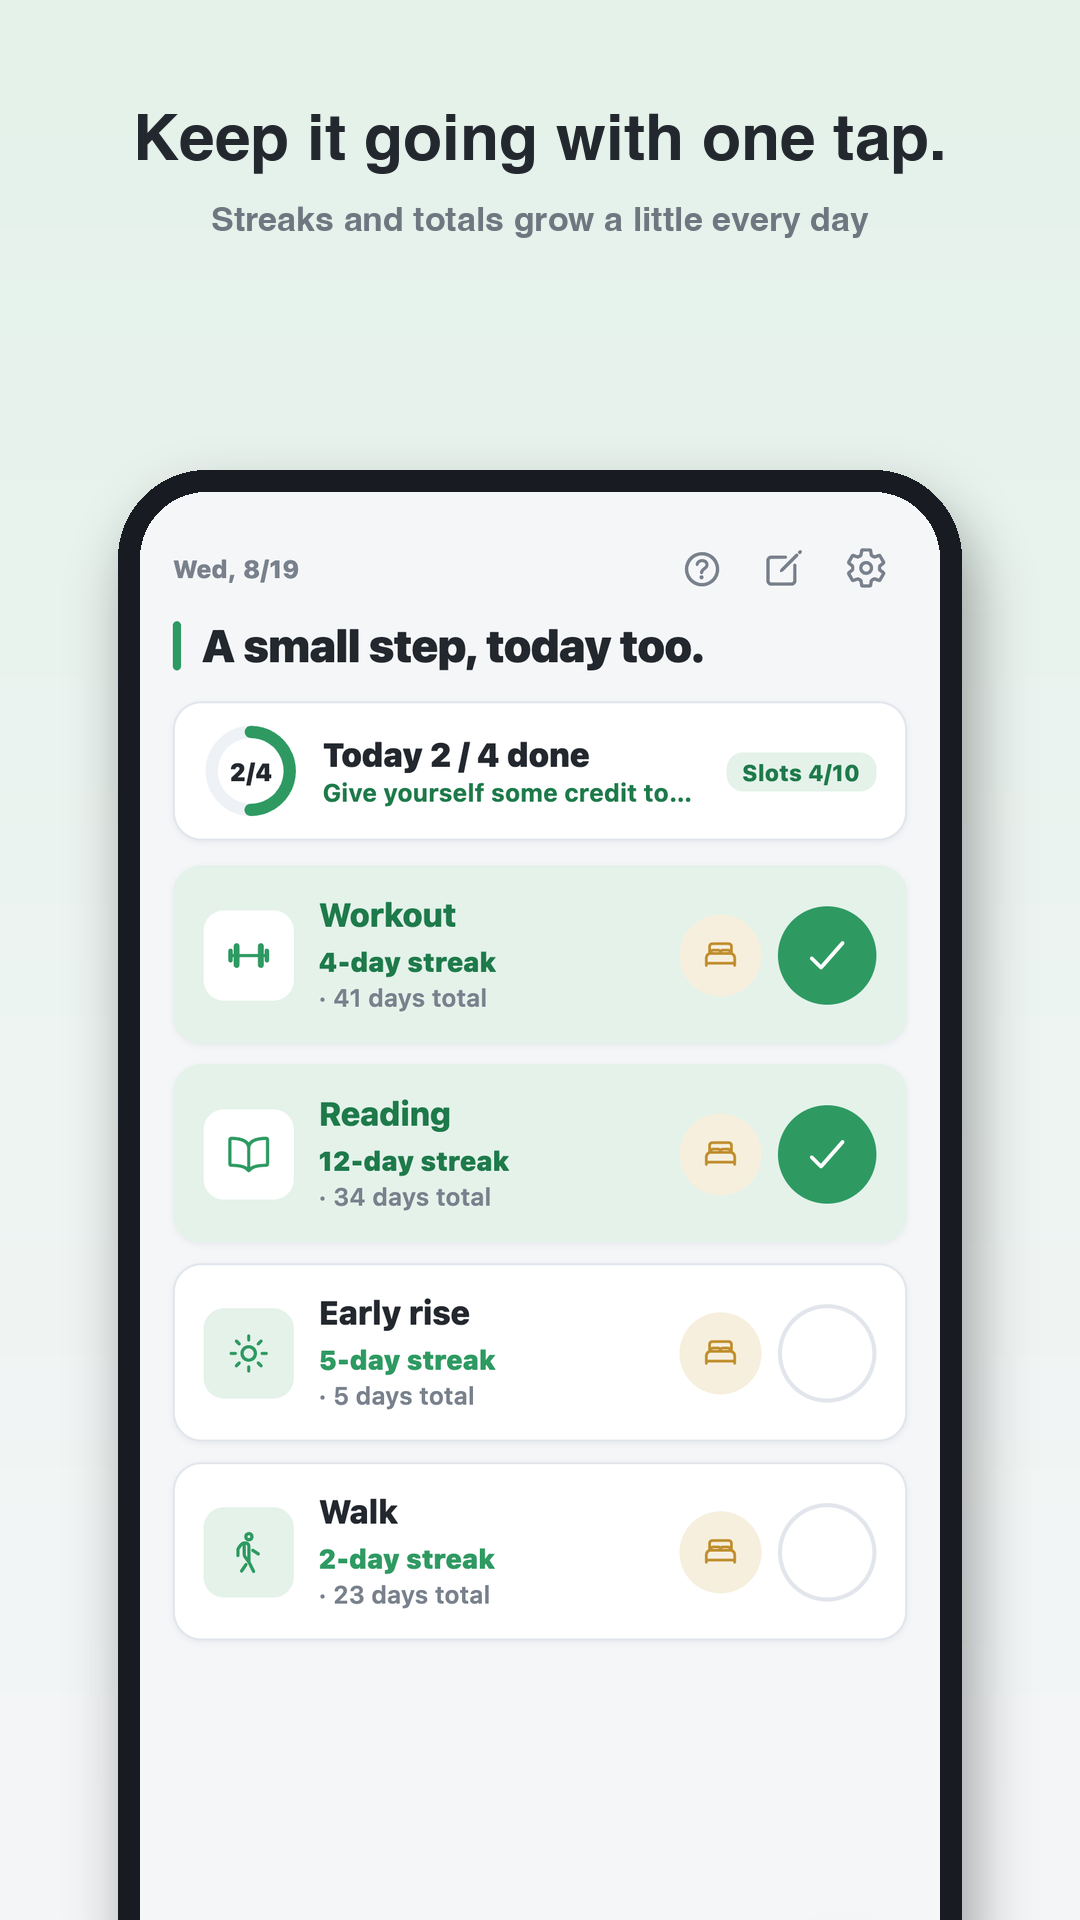
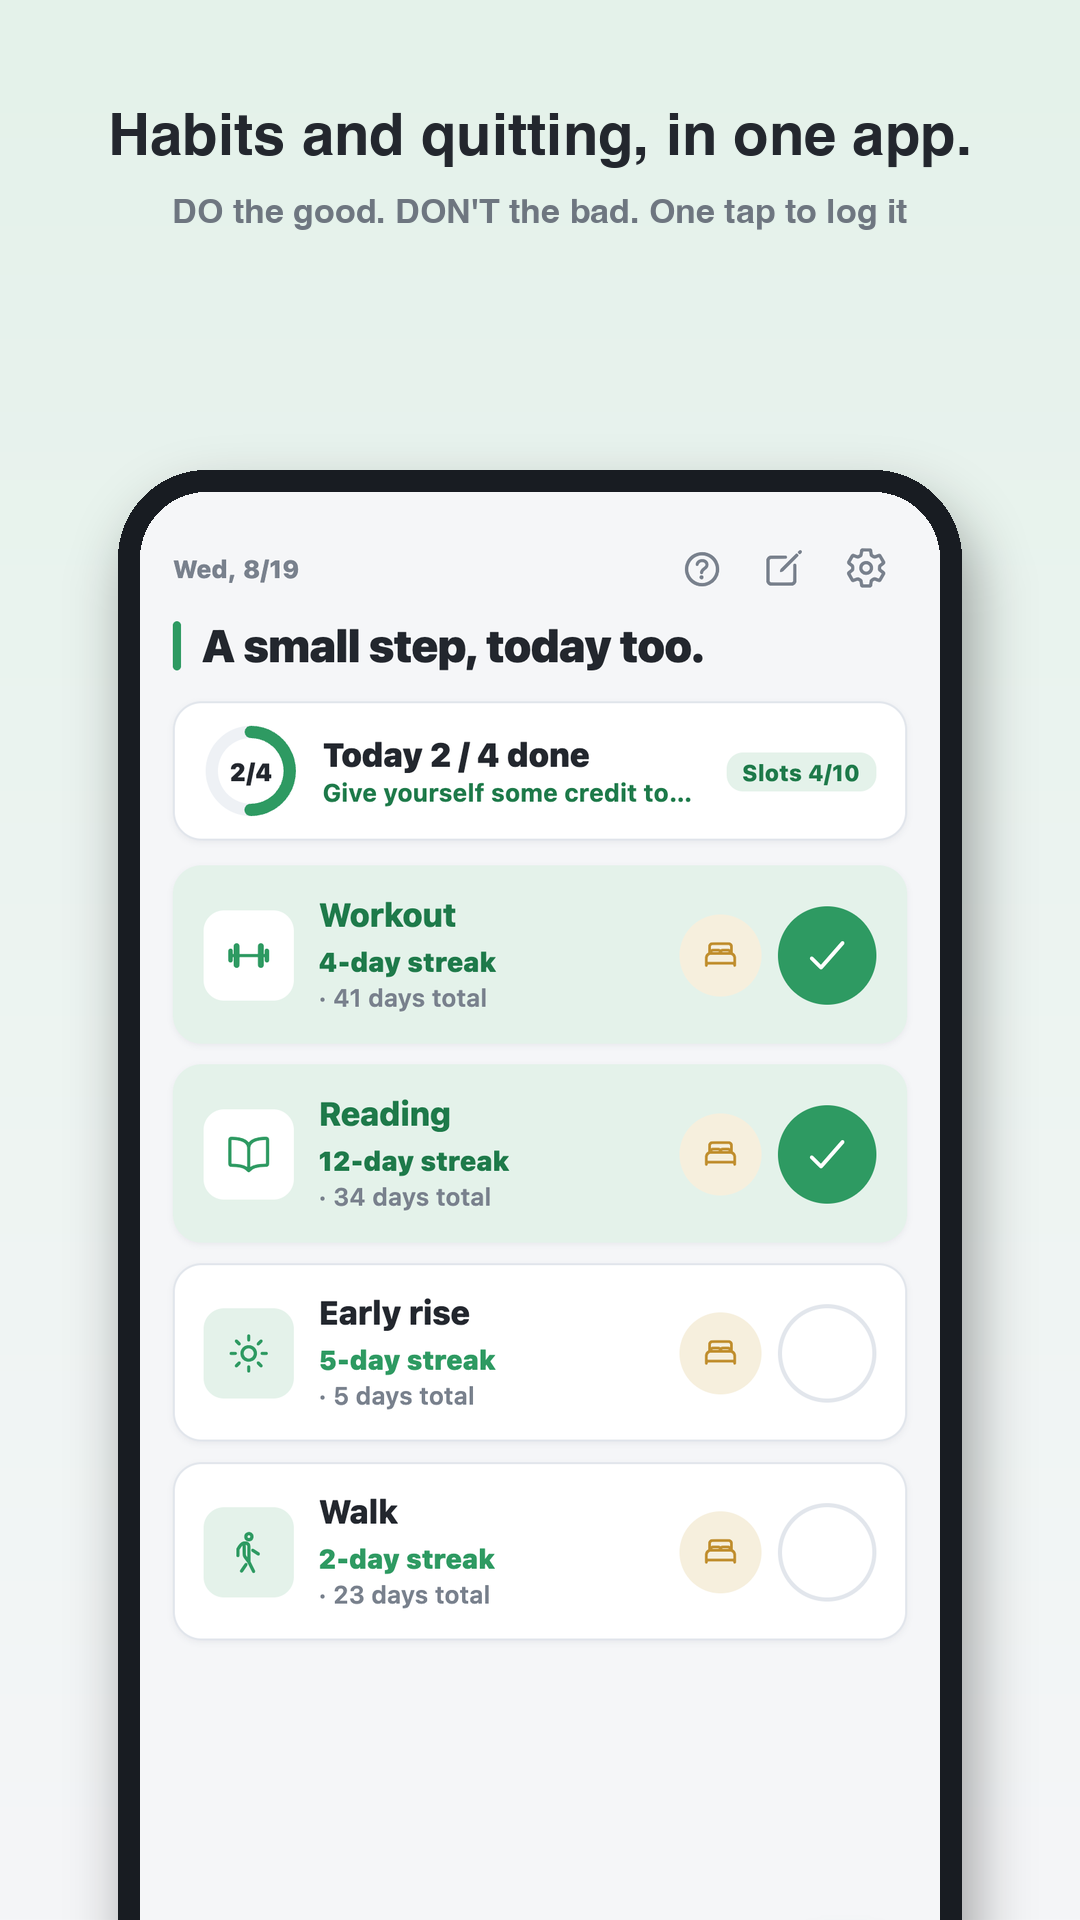
tagline: DO the good. DON'T the bad.

Changed region(s): [[0.0917, 0.0625, 0.8861, 0.125]]

diff --git a/index.html b/index.html
@@ -20,7 +20,7 @@
   <p class="lead">セルフコントロールのための小さなアプリを作っています。</p>
   <section class="app">
     <h2>DO &amp; DON'T</h2>
-    <p>続けたいことは DO、やめたいことは DON'T。取り戻した時間とお金が積み上がる、習慣と禁欲のセルフコントロールアプリ。</p>
+    <p>習慣と禁欲、1つのアプリで。DO the good. DON'T the bad. 取り戻した時間とお金が積み上がるセルフコントロールアプリ。</p>
     <div class="links">
       <a href="https://actoooooooo.github.io/uj-labs-legal/do-and-dont/privacy-policy.html">プライバシーポリシー</a>
       <a href="https://actoooooooo.github.io/uj-labs-legal/do-and-dont/terms.html">利用規約</a>
